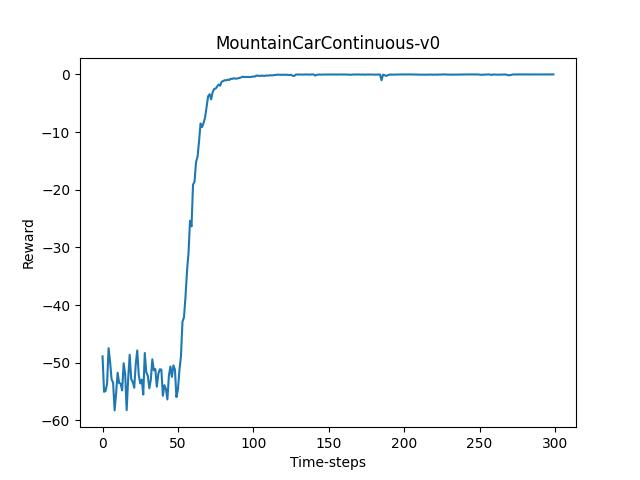
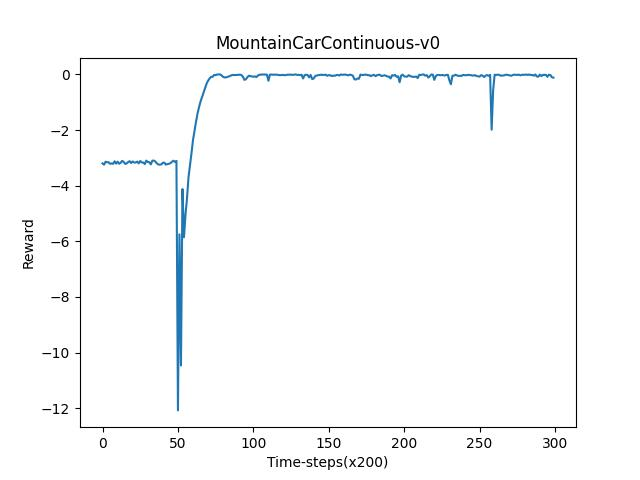
over

diff --git a/test_AC.py b/test_AC.py
@@ -1,0 +1,118 @@
+import torch
+import torch.nn as nn
+import torch.nn.functional as F
+import numpy as np
+import gym
+import os
+import time
+os.environ['KMP_DUPLICATE_LIB_OK'] = 'TRUE'
+env=gym.make('MountainCar-v0').unwrapped
+'''CartPole的环境状态特征量为推车的位置x、速度x_dot、杆子的角度theta、角速度theta_dot，状态是这四个状态特征所组成的，情况将是无限个，是连续的（即无限个状态），动作是推车向左-0，向右-1，（离散的，有限个，2个）'''
+state_number=env.observation_space.shape[0]
+action_number=env.action_space.n
+LR_A = 0.005    # learning rate for actor
+LR_C = 0.01     # learning rate for critic
+Gamma = 0.9
+Switch=0#训练、测试切换标志
+'''AC第一部分 设计actor'''
+'''第一步.设计actor和critic的网络部分'''
+class ActorNet(nn.Module):
+    def __init__(self):
+        super(ActorNet, self).__init__()
+        self.in_to_y1=nn.Linear(state_number,50)
+        self.in_to_y1.weight.data.normal_(0,0.1)
+        self.y1_to_y2=nn.Linear(50,20)
+        self.y1_to_y2.weight.data.normal_(0,0.1)
+        self.out=nn.Linear(20,action_number)
+        self.out.weight.data.normal_(0,0.1)
+    def forward(self,inputstate):
+        inputstate=self.in_to_y1(inputstate)
+        inputstate=F.relu(inputstate)
+        inputstate=self.y1_to_y2(inputstate)
+        inputstate=torch.sigmoid(inputstate)
+        act=self.out(inputstate)
+        return F.softmax(act,dim=-1)
+class CriticNet(nn.Module):
+    def __init__(self):
+        super(CriticNet, self).__init__()
+        self.in_to_y1=nn.Linear(state_number,40)
+        self.in_to_y1.weight.data.normal_(0,0.1)
+        self.y1_to_y2=nn.Linear(40,20)
+        self.y1_to_y2.weight.data.normal_(0,0.1)
+        self.out=nn.Linear(20,1)
+        self.out.weight.data.normal_(0,0.1)
+    def forward(self,inputstate):
+        inputstate=self.in_to_y1(inputstate)
+        inputstate=F.relu(inputstate)
+        inputstate=self.y1_to_y2(inputstate)
+        inputstate=torch.sigmoid(inputstate)
+        act=self.out(inputstate)
+        return act
+class Actor():
+    def __init__(self):
+        self.actor=ActorNet()
+        self.optimizer = torch.optim.Adam(self.actor.parameters(), lr=LR_A)
+    '''第二步.编写actor的选择动作函数'''
+    def choose(self,inputstate):
+        inputstate=torch.FloatTensor(inputstate)
+        probs=self.actor(inputstate).detach().numpy()
+        action=np.random.choice(np.arange(action_number),p=probs)
+        return action
+    '''第四步.根据td-error进行学习，编写公式log(p(s,a))*td_e的代码'''
+    def learn(self,s,a,td):
+        s = torch.FloatTensor(s)
+        prob = self.actor(s)
+        log_prob = torch.log(prob)
+        actor_loss=-log_prob[a]*td
+        self.optimizer.zero_grad()
+        actor_loss.backward()
+        self.optimizer.step()
+'''第二部分 Critic部分'''
+class Critic():
+    def __init__(self):
+        self.critic=CriticNet()
+        self.optimizer = torch.optim.Adam(self.critic.parameters(), lr=LR_C)
+        self.lossfunc=nn.MSELoss()#均方误差（MSE）
+    '''第三步.编写td-error的计算代码（V现实减去V估计就是td-error）'''
+    def learn(self,s,r,s_):
+        '''当前的状态s计算当前的价值，下一个状态s_计算出下一状态的价值v_，然后v_乘以衰减γ再加上r就是v现实'''
+        s = torch.FloatTensor(s)
+        v=self.critic(s)#输入当前状态，有网络得到估计v
+        r=torch.FloatTensor([r])#.unsqueeze(0)#unsqueeze(0)在第一维度增加一个维度
+        s_ = torch.FloatTensor(s_)
+        reality_v=r+Gamma*self.critic(s_).detach()#现实v
+        td_e=self.lossfunc(reality_v,v)
+        self.optimizer.zero_grad()
+        td_e.backward()
+        self.optimizer.step()
+        advantage=(reality_v-v).detach()
+        return advantage
+
+# 用于测试环境的入口
+def test_AC(env_name: str):
+    MAX_EPISODES = 300
+    MAX_EP_STEPS = 200
+    # env = gym.make(env_name)
+    # s_dim = env.observation_space.shape[0]
+    # a_dim = env.action_space.shape[0]
+    start_time = time.time()  # 记录算法运行时间
+    a = Actor()
+    c = Critic()
+    y = []
+    for i in range(MAX_EPISODES):
+        s = env.reset()[0]
+        ep_reward = 0
+        for j in range(MAX_EP_STEPS):
+            action = a.choose(s)
+            s_next, r, done, _, info = env.step(action)
+            td_error = c.learn(s, r, s_next)  # gradient = grad[r + gamma * V(s_) - V(s)]
+            a.learn(s, action, td_error)  # true_gradient = grad[logPi(s,a) * td_error]
+            s = s_next
+            if done:
+                break
+            ep_reward += r
+            y.append(ep_reward)  # 添加reward，以便后续制图
+        print(f'Episode:{i}, Reward: {ep_reward}')
+    print('Running time: ', time.time() - start_time)
+    return MAX_EPISODES*MAX_EP_STEPS,y,env_name
+

diff --git a/test.py b/test.py
@@ -1,22 +1,19 @@
 import gymnasium as gym
 import time
-import numpy as np
 
-from plot import show
 from DPG import DPG
 
 
 # 用于测试不同的环境
 def test(env_name: str):
     # hyper parameters
-    VAR = 3  # control exploration
     MAX_EPISODES = 300
     MAX_EP_STEPS = 200
     MEMORY_CAPACITY = 10000  # 记忆空间大小
     REPLACEMENT = [
         dict(name='soft', tau=0.005),
         dict(name='hard', rep_iter=600)
-    ][0]  # you can try different target replacement strategies
+    ][0]  # 更新策略
     env = gym.make(env_name)
     s_dim = env.observation_space.shape[0]
     a_dim = env.action_space.shape[0]
@@ -34,15 +31,15 @@ def test(env_name: str):
         ep_reward = 0
         for j in range(MAX_EP_STEPS):
             a = dpg.choose_action(s)
-            a = np.clip(np.random.normal(a, VAR), -2, 2)  # 在动作选择上添加随机噪声
             s_next, r, done, _, info = env.step(a)
             dpg.store_transition(s, a, r / 10, s_next)  # 保存记忆
             if dpg.pointer > MEMORY_CAPACITY:
-                VAR *= .9995  # decay the action randomness
                 dpg.learn()
+            if done:
+                break
             s = s_next
             ep_reward += r
         print(f'Episode:{i}, Reward: {ep_reward}')
         y.append(ep_reward)  # 添加reward，以便后续制图
     print('Running time: ', time.time() - start_time)
-    show(range(MAX_EPISODES), y, env_name)
+    return MAX_EPISODES, y, env_name

diff --git a/main.py b/main.py
@@ -1,10 +1,11 @@
 from test import *
-
+from plot import *
 if __name__ == '__main__':
     choose = int(input('1.mountain_car 2.pendulum 3.Octopus Arm\n'))
     if choose == 1:
-        test('MountainCarContinuous-v0')
+        x, y, env_name = test('MountainCarContinuous-v0')
     elif choose == 2:
-        test('PuddleWorld-v0')
+        x, y, env_name = test('Pendulum-v1')
     elif choose == 3:
-        test('Reacher-v4')
+        x, y, env_name = test('Reacher-v4')
+    show(range(x), y,env_name)

diff --git a/plot.py b/plot.py
@@ -2,11 +2,10 @@ import matplotlib.pyplot as plt
 
 
 def show(x, y,title):
-    plt.xlabel('Time-steps')
+    plt.xlabel('Time-steps(x200)')
     plt.ylabel('Reward')
-    plt.plot(x, y)
+    plt.plot(x, y,label='COPDAC-Q')
+    # plt.plot(a, b,lable='AC')
     plt.title(title)
     plt.savefig(f'{title}.jpg')
     plt.show()
-
-

diff --git a/AC.py b/AC.py
@@ -1,6 +1,9 @@
 import torch
 import torch.nn as nn
-
+"""
+该文件定义了DPG使用道德Actor和Critic
+并不是actor-critic算法的实现。
+"""
 
 class Actor(nn.Module):
     def __init__(self, state_dim, action_dim, action_bound):
